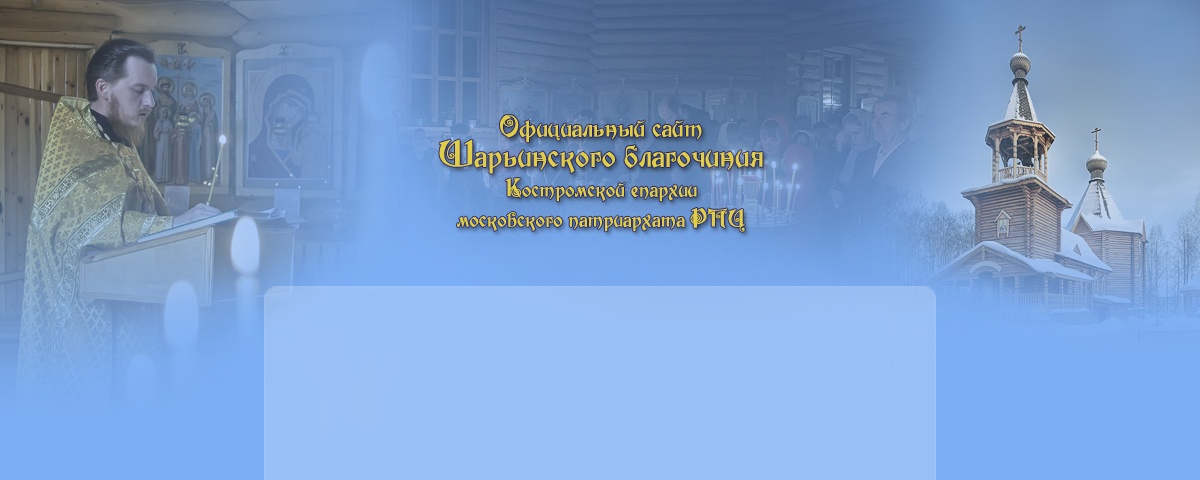
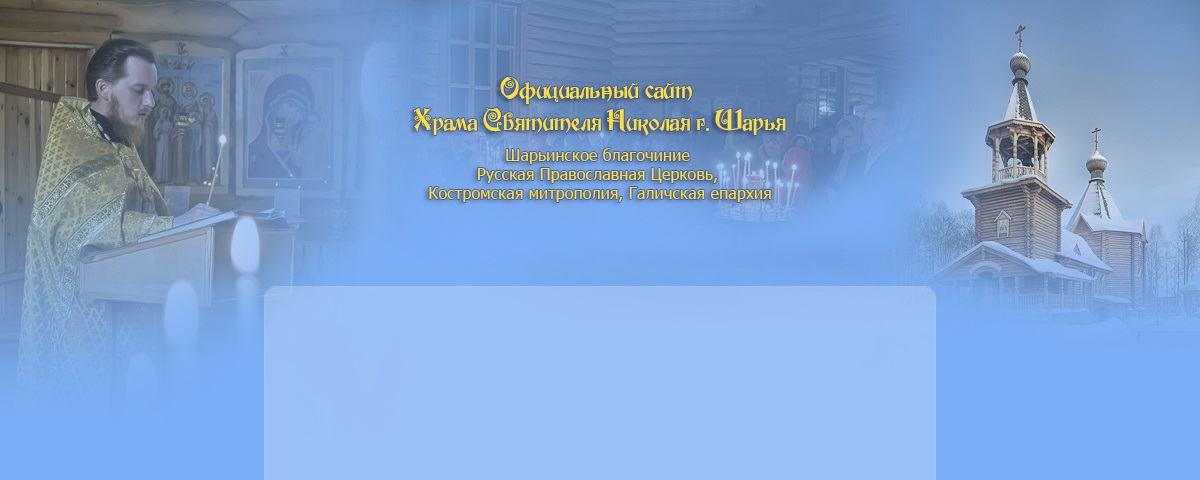
Контакты в шапке

Changed region(s): [[0.3392, 0.0, 0.8017, 0.5]]

diff --git a/htdocs/style/index.css b/htdocs/style/index.css
@@ -75,7 +75,7 @@ div.back {
 
 div.head {
     position: absolute;
-    margin-top: 10px;
+    margin-top: 0px;
     margin-left: 450px;
     text-align: center;
     width: 300px;
